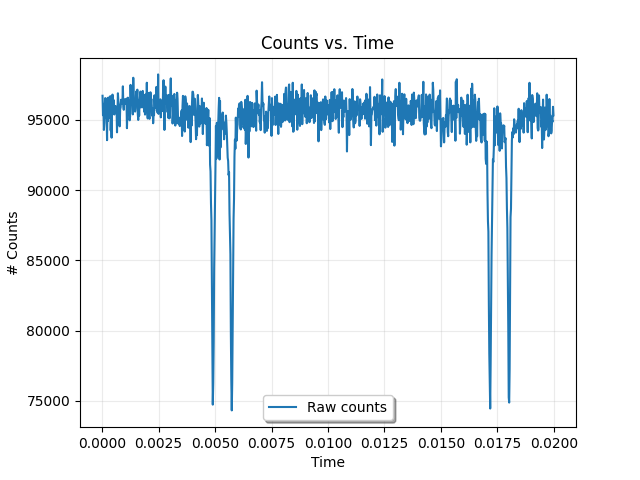
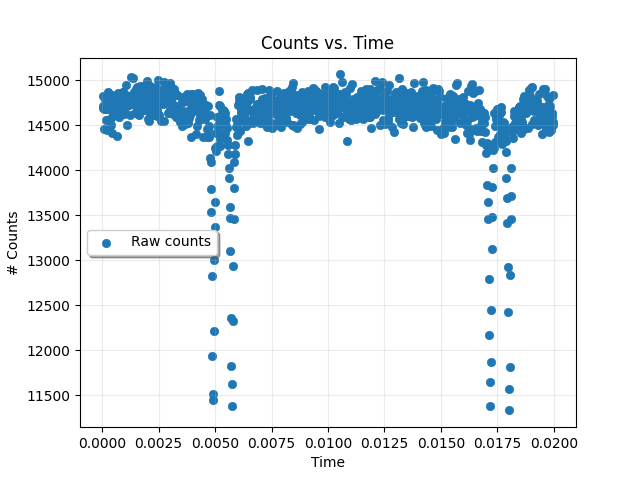
added chi2

diff --git a/plot_data.py b/plot_data.py
@@ -3,24 +3,26 @@ import matplotlib.pyplot as plt
 import os
 from scipy import optimize
 from scope_fit_11_22 import scope_fit
+import re
 
 # Get all files in folder
 folder_name = "FeF2_84.6K/"
 file_ending = '.txt'
 file_list = [file for file in os.listdir(folder_name) if file.endswith(file_ending)]
 
-# Take care of weird last file
-highest_numbered_file = file_list.pop()
+# Get data from highest numbered file
+highest_numbered_file = sorted(file_list, key=lambda file: int(re.findall('[0-9]+.txt', file)[0][:-4])).pop()
+print(highest_numbered_file)
 time_arr, total_count_arr = np.loadtxt(folder_name + highest_numbered_file, delimiter='\t', skiprows=5, unpack=True)
 
 # Aggregate data from all the files
-for file in file_list:
-  count_array = np.loadtxt(folder_name + file, delimiter='\t', skiprows=5, usecols=2, unpack=True)
-  total_count_arr += count_array
+# for file in file_list:
+#   count_array = np.loadtxt(folder_name + file, delimiter='\t', skiprows=5, usecols=2, unpack=True)
+#   total_count_arr += count_array
 
 # Plot data to check where fits need to happen
 fig1, ax1 = plt.subplots()
-ax1.plot(time_arr, total_count_arr, label='Raw counts')
+ax1.scatter(time_arr, total_count_arr, label='Raw counts', linewidths=0.5)
 ax1.set_title('Counts vs. Time')
 ax1.set_yscale("linear")
 ax1.set_xscale("linear")
@@ -35,29 +37,40 @@ fig1.show()
 # plt.close('all')
 # exit()
 
-# Define Lorentzian to fit
-def lorentzian(data, E0, amplitude, Gamma, offset):
-  return amplitude * (Gamma / ((data - E0)**2 + (Gamma / 2)**2)) + offset
-
 # Define peaks and their approximate positions
 number_peaks = 4
+fit_range = np.asarray([(0.0025, 0.0075), (0.0030, 0.0080), (0.0150, 0.0200), (0.0150, 0.0200)])
 approximate_positions = np.asarray([0.005, 0.006, 0.0174, 0.0180])
 approximate_amplitude = np.asarray([-20000, -20000, -20000, -20000])
 approximate_width = np.asarray([0.0005, 0.0005, 0.0005, 0.0005])
-approximate_offset = 95000 * np.ones(number_peaks)
-parameter_matrix = np.transpose(np.vstack((approximate_positions, approximate_amplitude, approximate_width, approximate_offset)))
+approximate_offset = 14500 * np.ones(number_peaks)
+param_matrix = np.transpose(np.vstack((approximate_positions, approximate_amplitude, approximate_width, approximate_offset)))
 
-opt_param_matrix = np.zeros(np.shape(parameter_matrix))
+# Define and fit Lorentzian
+def lorentzian(data, E0, amplitude, Gamma, offset):
+  return amplitude * (Gamma / ((data - E0)**2 + (Gamma / 2)**2)) + offset
 
+opt_param_matrix = np.zeros(np.shape(param_matrix))
+cov_matrix = np.zeros(shape=(np.shape(param_matrix)[0], np.shape(param_matrix)[1], np.shape(param_matrix)[1]))
+chi2_matrix = np.zeros(shape=(number_peaks, 2))
 for index in range(number_peaks):
-  opt_param_matrix[index], _ = optimize.curve_fit(lorentzian, time_arr, total_count_arr, parameter_matrix[index])
+  time_to_fit = [time for time in time_arr if time >= fit_range[index][0] and time <= fit_range[index][1]]
+  start_index = np.where(time_arr == time_to_fit[0])[0][0]
+  stop_index =  np.where(time_arr == time_to_fit[-1])[0][0] + 1
+  counts_to_fit = total_count_arr[start_index:stop_index]
+  count_std_dev = np.sqrt(counts_to_fit) # Poission process has variance lambda
+  opt_param_matrix[index], cov_matrix[index] = optimize.curve_fit(lorentzian, time_to_fit, counts_to_fit, param_matrix[index], sigma=count_std_dev)
+  chi2 = np.sum(np.square(np.divide(np.subtract(counts_to_fit, lorentzian(time_to_fit, *opt_param_matrix[index])), count_std_dev)))
+  deg_of_freedom = len(time_to_fit) - np.shape(param_matrix)[1]
+  reduced_chi2 = chi2 / deg_of_freedom
+  chi2_matrix[index] = [chi2, reduced_chi2]
 
 # Plot data to check fits
 fig2, ax2 = plt.subplots()
-ax2.plot(time_arr, total_count_arr, label='Raw counts')
+ax2.errorbar(time_arr, total_count_arr, yerr = np.sqrt(total_count_arr), capsize=2, label='Count Data', fmt='.')
 time_points = np.linspace(min(time_arr), max(time_arr), 10000)
 for index in range(number_peaks):
-  ax2.plot(time_points, lorentzian(time_points, *opt_param_matrix[index]), label=index)
+  ax2.plot(time_points, lorentzian(time_points, *opt_param_matrix[index]), label=r'$\chi^2$: {:.2g}, $\chi^2_{{\nu}}$: {:.2g}'.format(*chi2_matrix[index]))
 ax2.set_title('Counts vs. Time')
 ax2.set_yscale("linear")
 ax2.set_xscale("linear")
@@ -65,9 +78,8 @@ ax2.set_xlabel('Time')
 ax2.set_ylabel('# Counts')
 ax2.legend(framealpha=1, shadow=True, loc='best')
 ax2.grid(alpha=0.25)
-# Save .png of plot to folder with file
 fig2.savefig('{}/{}_counts_time_fit.png'.format(folder_name[:-1], folder_name[:-1]))
-# fig2.show()
+fig2.show()
 # input("hit[enter] to close all plots")
 # plt.close('all')
 
@@ -75,14 +87,14 @@ fig2.savefig('{}/{}_counts_time_fit.png'.format(folder_name[:-1], folder_name[:-
 num_distinct_peaks = int(number_peaks/2)
 amp, ang_freq, phase_transducer, shift = scope_fit.cos_params_from_data()
 velocity_voltage_ratio=0.080523086265892;
-peak_velocity_matrix = np.zeros((num_distinct_peaks, 2))
+peak_velocity_matrix = np.zeros((num_distinct_peaks, 3))
 for index in range(num_distinct_peaks):
   left_peak_time = opt_param_matrix[index][0]
   right_peak_time = opt_param_matrix[-index][0]
   time_diff = right_peak_time - left_peak_time
   peak_voltage = scope_fit.voltage_from_time_diff(time_diff, amp, ang_freq)
   peak_velocity = peak_voltage * velocity_voltage_ratio
-  peak_velocity_matrix[index] = [left_peak_time, peak_velocity]
+  peak_velocity_matrix[index] = [left_peak_time, peak_velocity, right_peak_time]
 
 # Fit the phase of trig function to these velocities
 def velocity(time, phase_velocity):
@@ -90,13 +102,19 @@ def velocity(time, phase_velocity):
 
 phase_change, _ = optimize.curve_fit(velocity, peak_velocity_matrix[:, 0], peak_velocity_matrix[:, 1])
 
-print('Phase change: {}'.format(phase_change[0]))
+print('Phase change: {}'.format(*phase_change))
+print('Velocity at time 0: {}'.format(velocity(0, *phase_change)))
+print(peak_velocity_matrix[0, 1])
+print(peak_velocity_matrix[1, 1])
 
 # Check fit to these points
 fig3, ax3 = plt.subplots()
 ax3.scatter(peak_velocity_matrix[:, 0], peak_velocity_matrix[:, 1], label='Velocity set by diff')
 time_points = np.linspace(min(time_arr), max(time_arr), 10000)
-ax3.plot(time_points, velocity(time_points, phase_change[0]), label='Fitted velocity trig', color='orange')
+ax3.plot(time_points, velocity(time_points, *phase_change), label='Fitted velocity trig', color='orange')
+# for index in range(num_distinct_peaks):
+# ax3.hlines(peak_velocity_matrix[0, 1], peak_velocity_matrix[0, 0], peak_velocity_matrix[0, 2], ls='dashed', label='Diff line 1')
+# ax3.hlines(peak_velocity_matrix[1, 1], peak_velocity_matrix[1, 0], peak_velocity_matrix[1, 2], ls='dashed', label='Diff line 2', color='red', lw=10)
 ax3.set_title('Velocity vs. Time')
 ax3.set_yscale("linear")
 ax3.set_xscale("linear")
@@ -109,7 +127,6 @@ fig3.savefig('{}/{}_vel_phase_check.png'.format(folder_name[:-1], folder_name[:-
 fig3.show()
 input("hit[enter] to close all plots")
 plt.close('all')
-
 
 exit()
 
